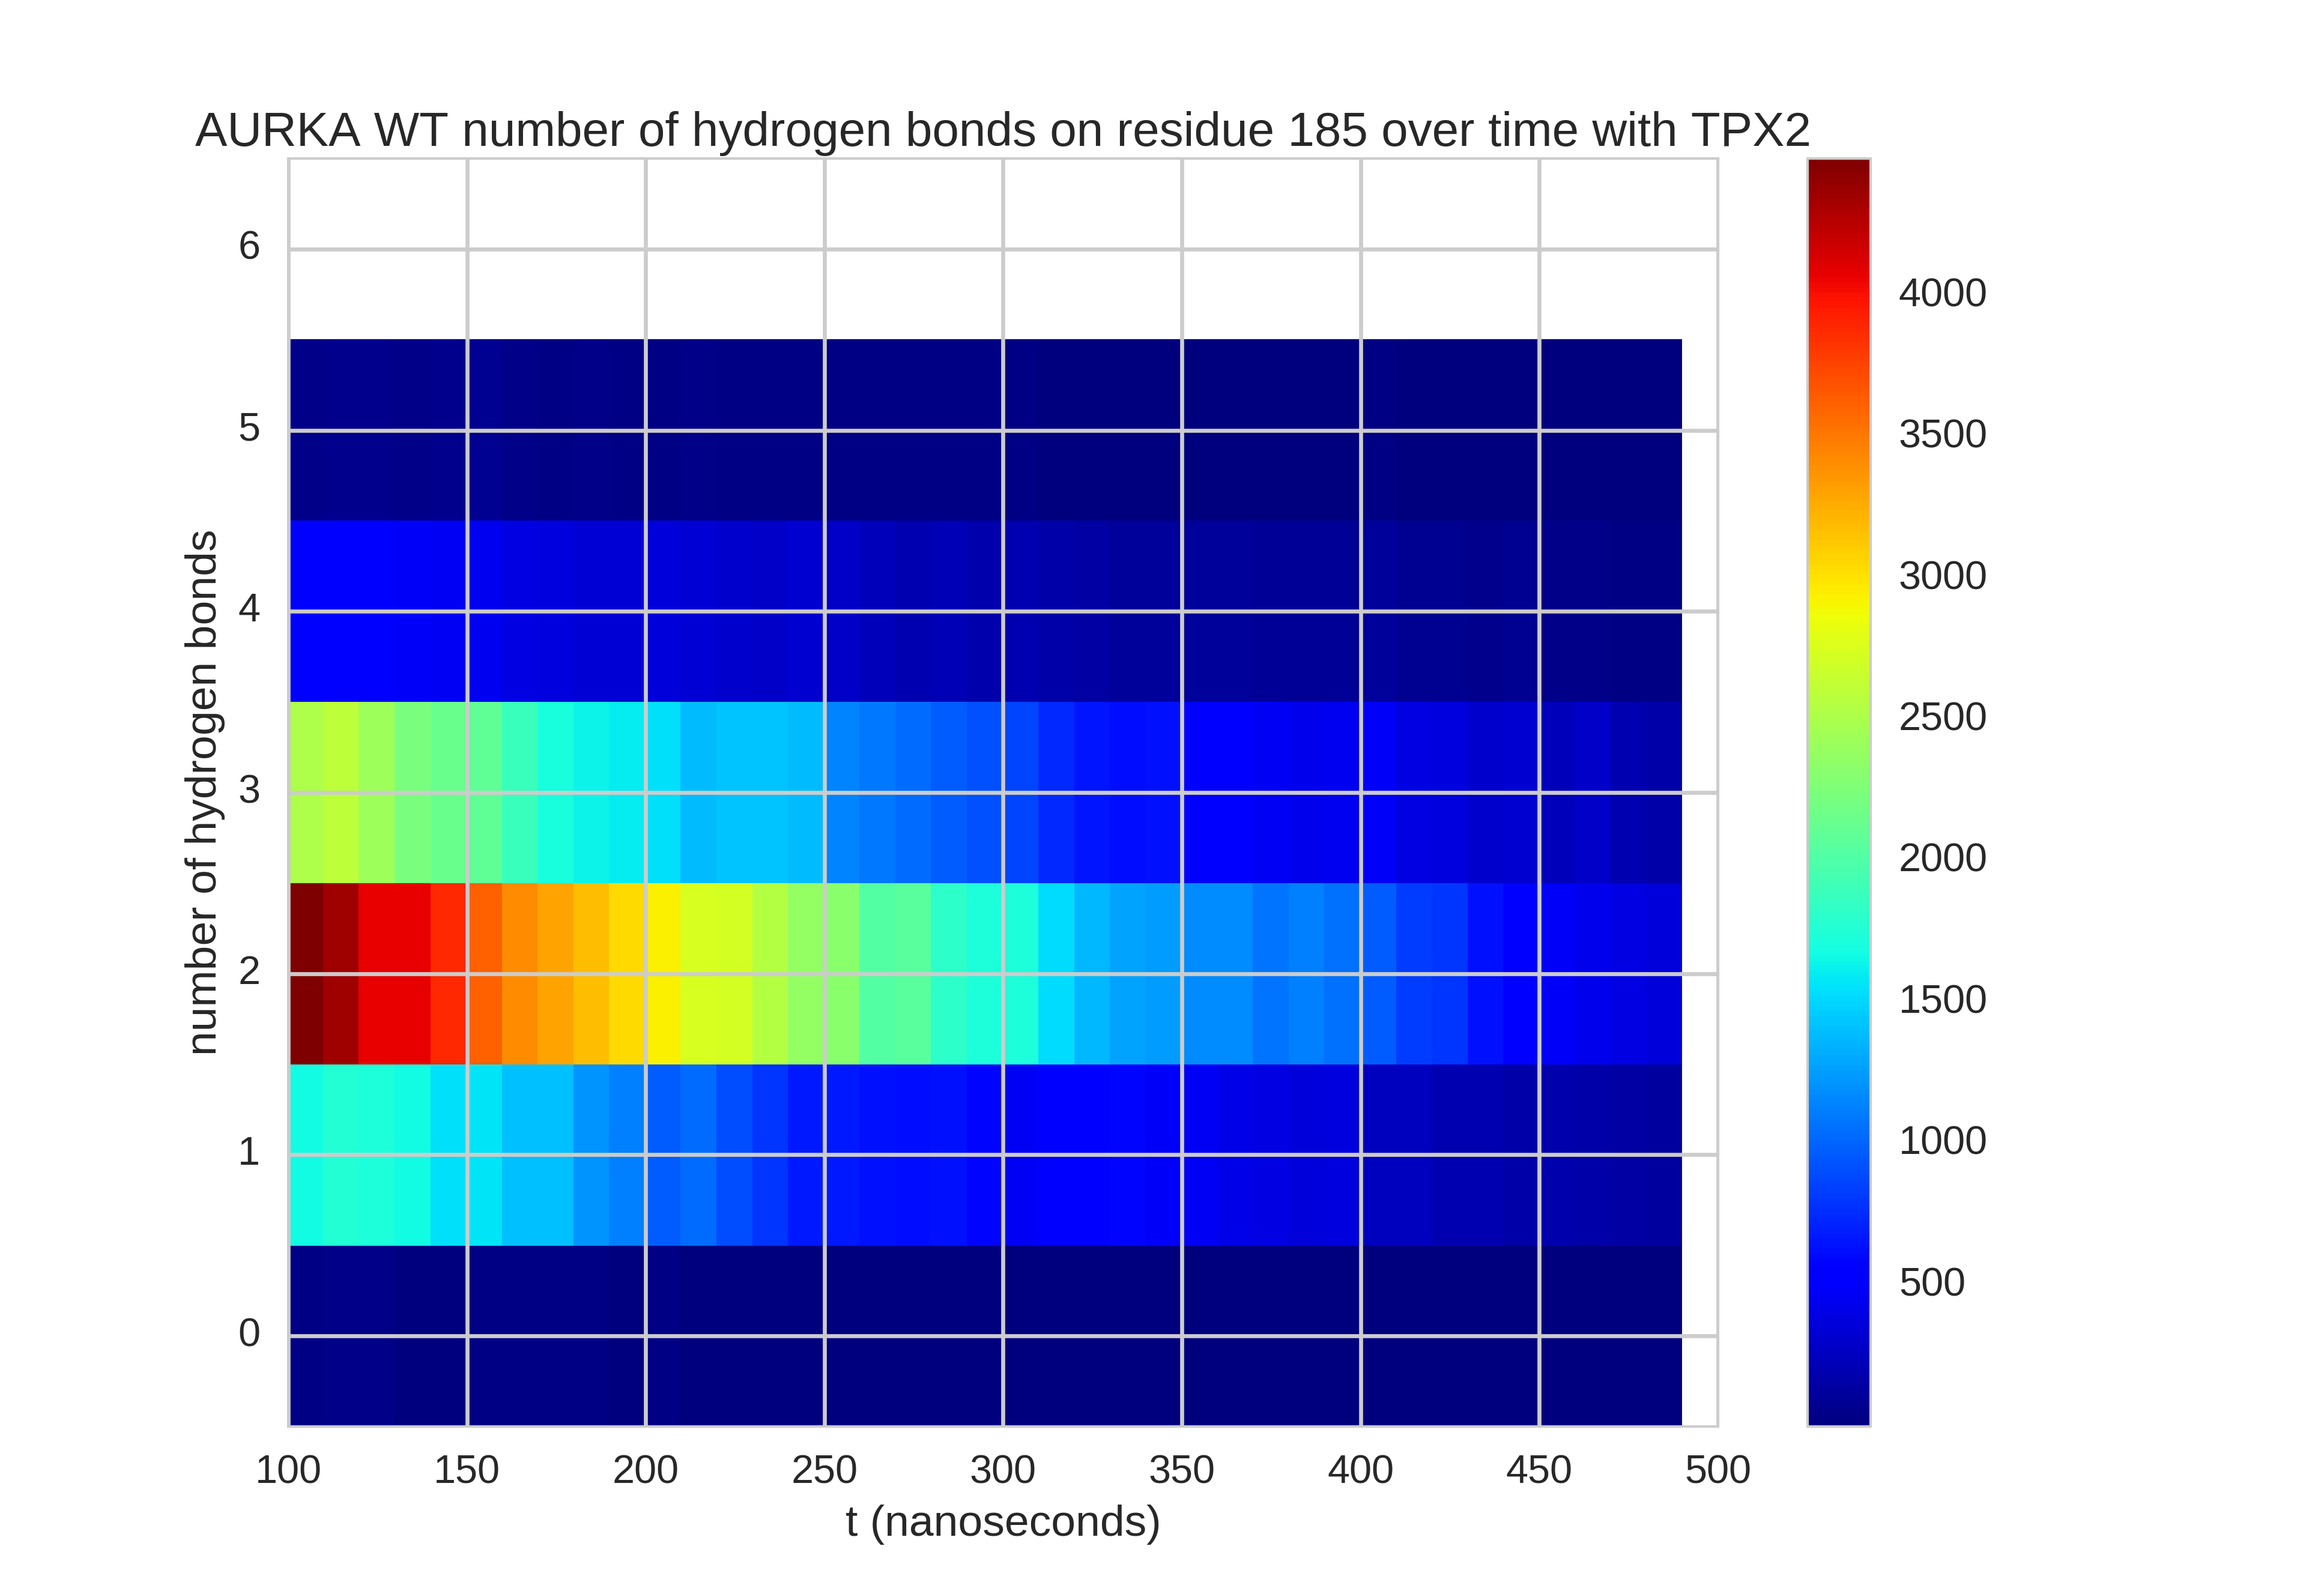
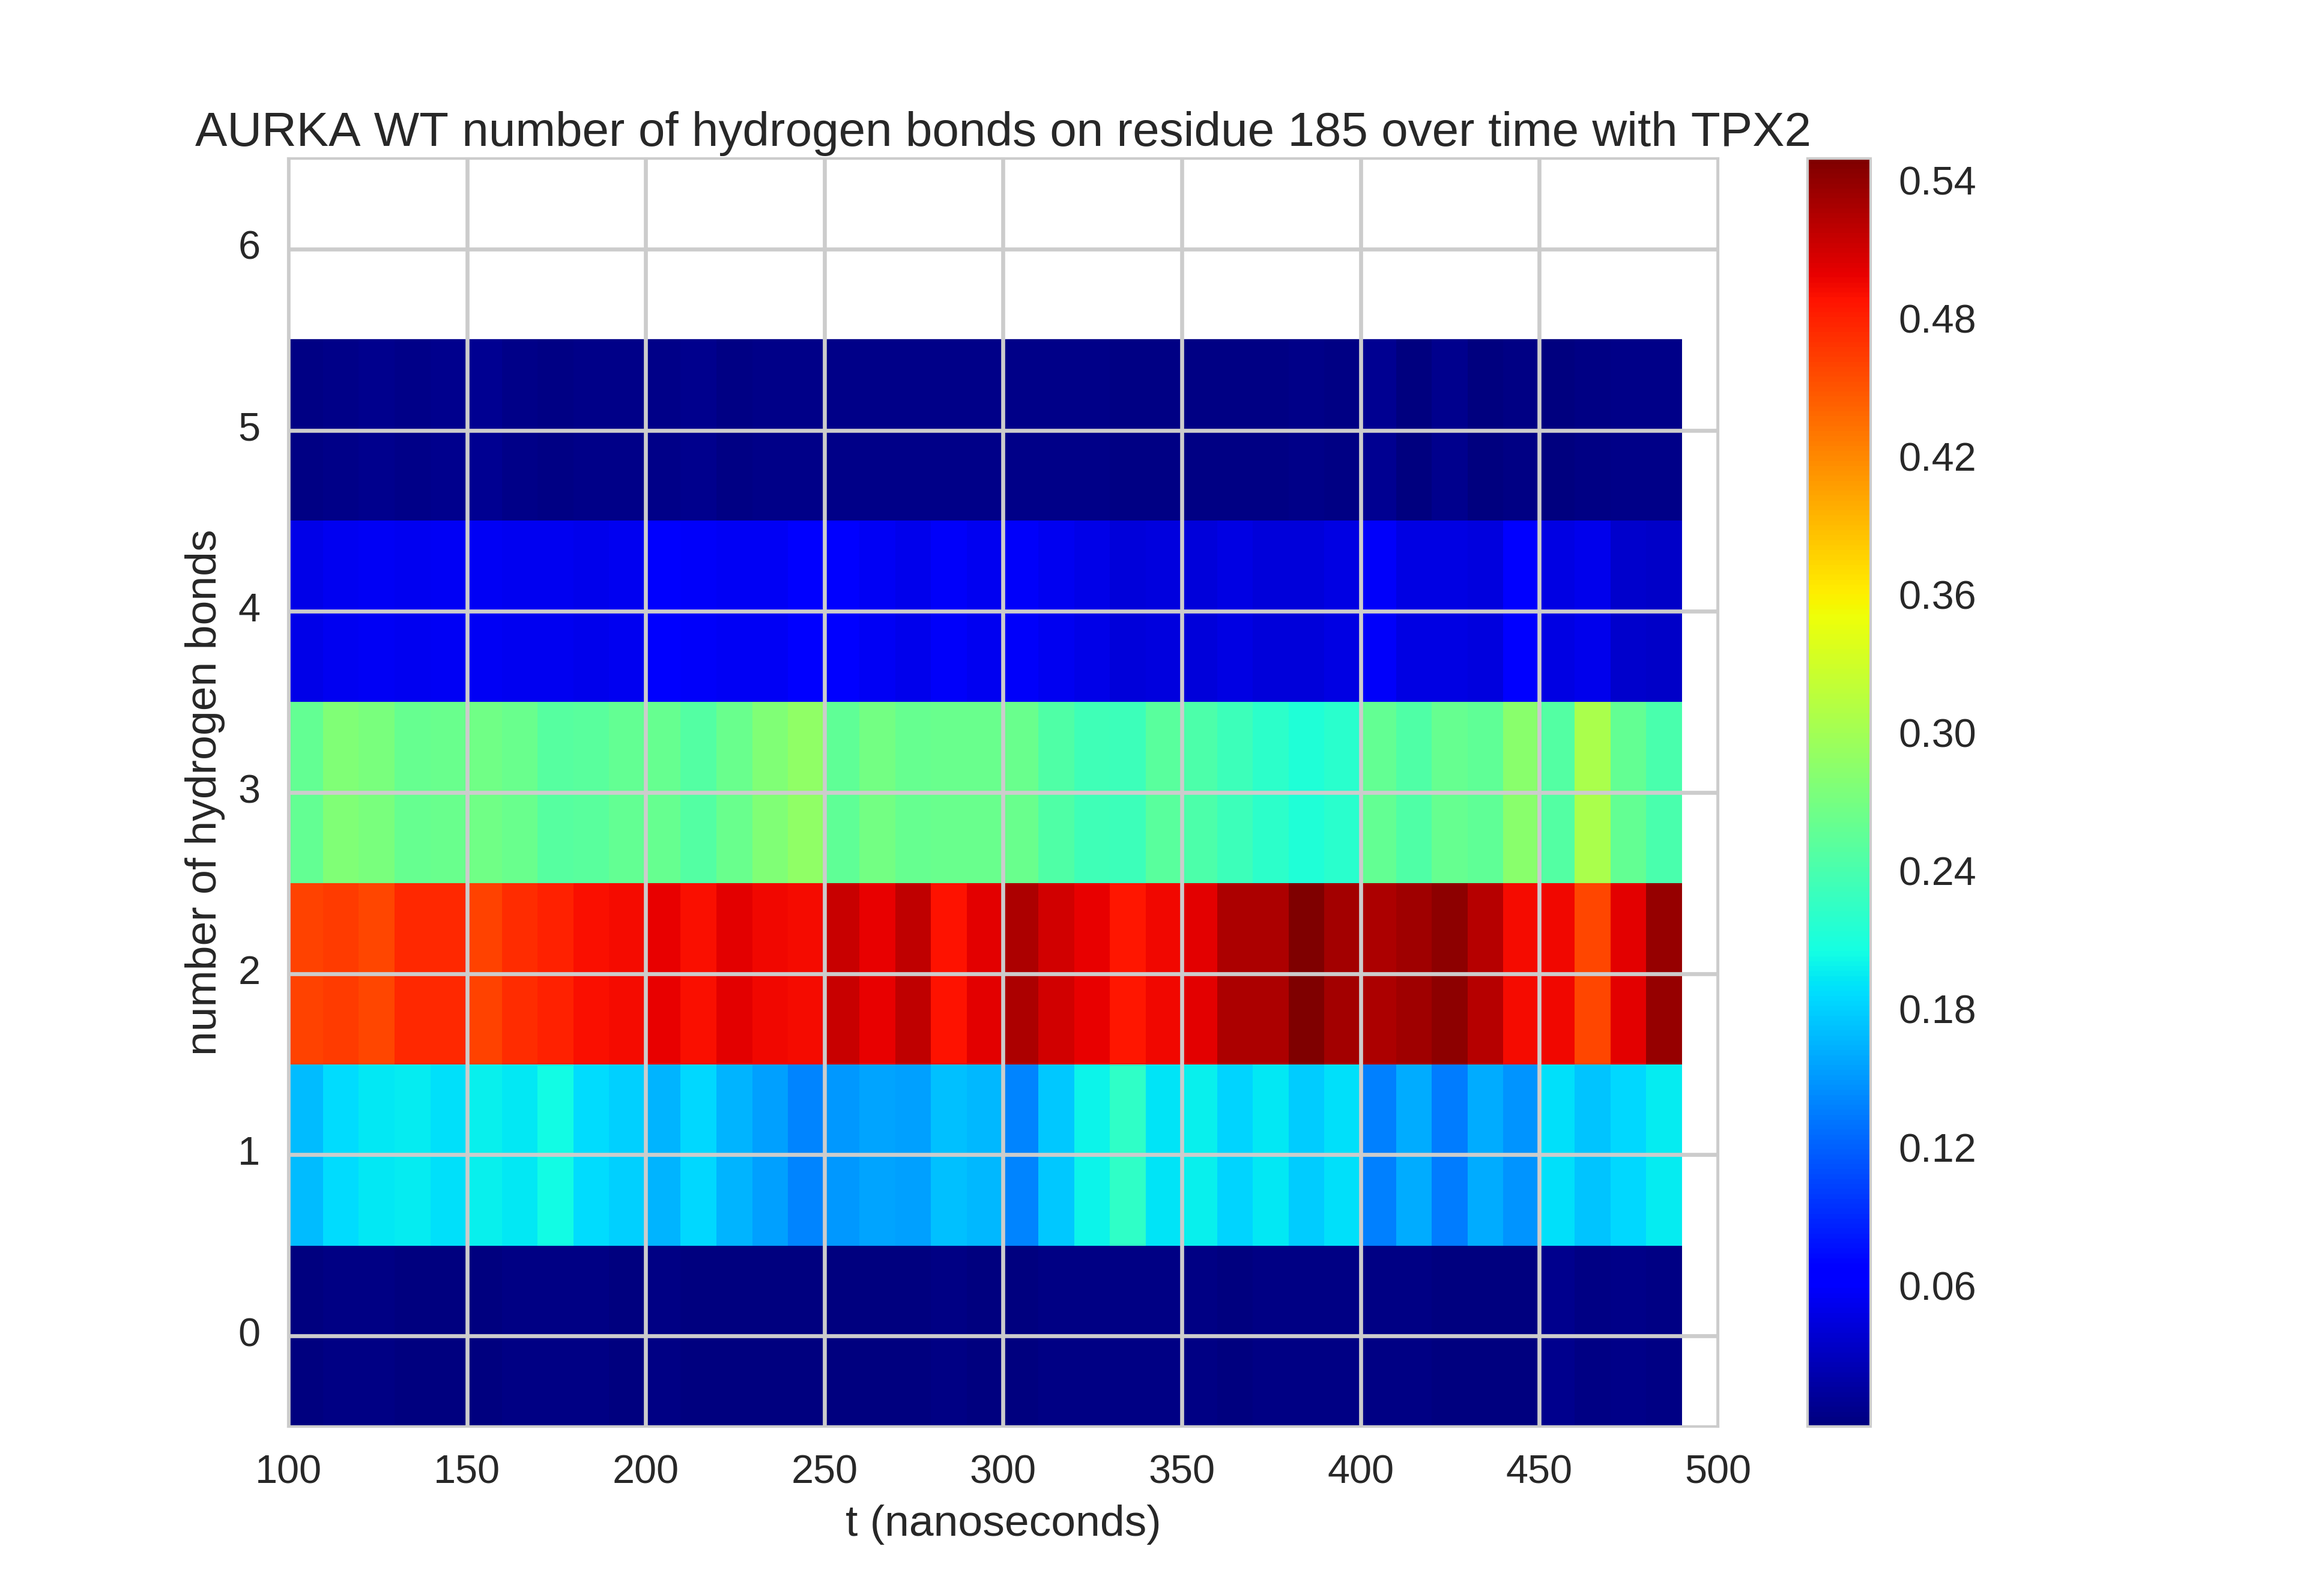
Plot probability distribution at each frame

diff --git a/RUN0_search_for_W1_W2.py b/RUN0_search_for_W1_W2.py
@@ -39,10 +39,9 @@ for entry in run_index.split('\n'):
 bin_x = np.arange(offset/4,500,10) - 0.25
 bin_y = np.arange(7) - 0.5
 
-def plot_2dhist(residue, x_axis, hbond_count, run, project):
-    print('Now plotting residue %s from %s RUN%s' % (residue, project, run))
+def plot_2dhist(residue, x_axis, hbond_count, weights, run, project):
     fig1 = plt.figure()
-    plt.hist2d(x_axis[hbond_count > -1],hbond_count[hbond_count > -1],bins=[bin_x,bin_y],cmap=plt.get_cmap('jet'))
+    plt.hist2d(x_axis[hbond_count > -1],hbond_count[hbond_count > -1],bins=[bin_x,bin_y],weights=weights[hbond_count > -1],cmap=plt.get_cmap('jet'))
     plt.title('AURKA %s number of hydrogen bonds on residue %s over time %s' % (mutant['RUN%s' % run], residue, system[project]))
     plt.ylabel('number of hydrogen bonds')
     plt.xlabel('t (nanoseconds)')
@@ -52,15 +51,19 @@ def plot_2dhist(residue, x_axis, hbond_count, run, project):
         residue = str(residue)+'-possible-W1-W2'
     plt.savefig("./plots/AURKA-%s-hbonds-hist2d-entire-traj-%s-combined-RUN%s" % (residue, project, run),dpi=300)
     plt.close(fig1)
+    print('Saved ./plots/AURKA-%s-hbonds-hist2d-entire-traj-%s-combined-RUN%s.png' % (residue, project, run))
 
 def count_and_plot_res_bonds(residue, HB_res_total,compare_to=None):
     hbond_count = np.zeros((5*50,2000-offset)) - 1
     x_axis = np.zeros((5*50,2000-offset))
+    weights = np.zeros((5*50,2000-offset))
+    column_count = np.zeros(bin_x.shape)
     for clone, traj in enumerate(HB_res_total):
         for index in range(offset,2000):
             if compare_to is None:
                 try:
                     hbond_count[clone][index-offset] = traj[index].shape[0]
+                    column_count[(index-offset-0.25)/40] += 1
                 except:
                     pass
             else:
@@ -73,12 +76,17 @@ def count_and_plot_res_bonds(residue, HB_res_total,compare_to=None):
                             bond[2] in reference_acceptors or bond[0] in reference_acceptors):
                             count += 1
                     hbond_count[clone][index-offset] = count
+                    column_count[(index-offset-0.25)/40] += 1
                 except:
                     pass
             x_axis[clone][index-offset] = index*0.25
+    for clone, traj in enumerate(HB_res_total):
+        for index in range(offset,2000):
+            weights[clone][index-offset] = 1.00 / column_count[(index-offset-0.25)/40]
     x_axis = x_axis.flatten()
     hbond_count = hbond_count.flatten()
-    plot_2dhist(residue, x_axis, hbond_count, 0, project)
+    weights = weights.flatten()
+    plot_2dhist(residue, x_axis, hbond_count, weights, 0, project)
 
 for i, project in enumerate(projects):
     project_dir = project_dirs[project]
@@ -97,4 +105,3 @@ for i, project in enumerate(projects):
     for key in HB_total.keys():
         if key != reference:
             count_and_plot_res_bonds(key, HB_total[key], compare_to=HB_total[reference])
-

diff --git a/RUN0_hbonds_2dhists.py b/RUN0_hbonds_2dhists.py
@@ -39,10 +39,9 @@ for entry in run_index.split('\n'):
 bin_x = np.arange(offset/4,500,10) - 0.25
 bin_y = np.arange(7) - 0.5
 
-def plot_2dhist(residue, x_axis, hbond_count, run, project):
-    print('Now plotting residue %s from %s RUN%s' % (residue, project, run))
+def plot_2dhist(residue, x_axis, hbond_count, weights, run, project):
     fig1 = plt.figure()
-    plt.hist2d(x_axis[hbond_count > -1],hbond_count[hbond_count > -1],bins=[bin_x,bin_y],cmap=plt.get_cmap('jet'))
+    plt.hist2d(x_axis[hbond_count > -1],hbond_count[hbond_count > -1],bins=[bin_x,bin_y],weights=weights[hbond_count > -1],cmap=plt.get_cmap('jet'))
     plt.title('AURKA %s number of hydrogen bonds on residue %s over time %s' % (mutant['RUN%s' % run], residue, system[project]))
     plt.ylabel('number of hydrogen bonds')
     plt.xlabel('t (nanoseconds)')
@@ -50,15 +49,19 @@ def plot_2dhist(residue, x_axis, hbond_count, run, project):
     plt.axis([offset/4,500,-0.5,6.5])
     plt.savefig("./plots/AURKA-%s-hbonds-hist2d-entire-traj-%s-combined-RUN%s" % (residue, project, run),dpi=300)
     plt.close(fig1)
+    print('Saved ./plots/AURKA-%s-hbonds-hist2d-entire-traj-%s-combined-RUN%s.png' % (residue, project, run))
 
 def count_and_plot_res_bonds(residue, HB_res_total,compare_to=None):
     hbond_count = np.zeros((5*50,2000-offset)) - 1
     x_axis = np.zeros((5*50,2000-offset))
+    weights = np.zeros((5*50,2000-offset))
+    column_count = np.zeros(bin_x.shape)
     for clone, traj in enumerate(HB_res_total):
         for index in range(offset,2000):
             if compare_to is None:
                 try:
                     hbond_count[clone][index-offset] = traj[index].shape[0]
+                    column_count[(index-offset-0.25)/40] += 1
                 except:
                     pass
             else:
@@ -71,12 +74,17 @@ def count_and_plot_res_bonds(residue, HB_res_total,compare_to=None):
                             bond[2] in reference_acceptors or bond[0] in reference_acceptors):
                             count += 1
                     hbond_count[clone][index-offset] = count
+                    column_count[(index-offset-0.25)/40] += 1
                 except:
                     pass
             x_axis[clone][index-offset] = index*0.25
+    for clone, traj in enumerate(HB_res_total):
+        for index in range(offset,2000):
+            weights[clone][index-offset] = 1.00 / column_count[(index-offset-0.25)/40]
     x_axis = x_axis.flatten()
     hbond_count = hbond_count.flatten()
-    plot_2dhist(residue, x_axis, hbond_count, 0, project)
+    weights = weights.flatten()
+    plot_2dhist(residue, x_axis, hbond_count, weights, 0, project)
 
 for i, project in enumerate(projects):
     project_dir = project_dirs[project]

diff --git a/RUN0_salt_bridge_2dhists.py b/RUN0_salt_bridge_2dhists.py
@@ -35,9 +35,9 @@ offset = 400
 bin_x = np.arange(offset/4,500,10) - 0.25
 bin_y = np.arange(20) * 0.02 + 0.25
 
-def plot_2dhist(bridge, x_axis, minimum_distance, run, project):
+def plot_2dhist(bridge, x_axis, minimum_distance, weights, run, project):
     fig1 = plt.figure()
-    plt.hist2d(x_axis[minimum_distance > 0],minimum_distance[minimum_distance > 0],bins=[bin_x,bin_y],cmap=plt.get_cmap('jet'))
+    plt.hist2d(x_axis[minimum_distance > 0],minimum_distance[minimum_distance > 0],bins=[bin_x,bin_y],weights=weights[minimum_distance > 0],cmap=plt.get_cmap('jet'))
     plt.title('AURKA %s minimum %s salt bridge distance over time %s' % (mutant['RUN%s' % run], bridge, system[project]))
     plt.ylabel('distance r (nanometers) between residues %s and %s' % (bridge.split('-')[0], bridge.split('-')[1]))
     plt.xlabel('t (nanoseconds)')
@@ -45,12 +45,15 @@ def plot_2dhist(bridge, x_axis, minimum_distance, run, project):
     plt.axis([offset/4,500,0.25,0.65])
     plt.savefig("./plots/AURKA-salt-bridge-%s-hist2d-entire-traj-%s-combined-RUN%s" % (bridge, project, run),dpi=300)
     plt.close(fig1)
+    print('Saved ./plots/AURKA-salt-bridge-%s-hist2d-entire-traj-%s-combined-RUN%s.png' % (bridge, project, run))
 
 for i, project in enumerate(projects):
     project_dir = project_dirs[project]
     for bridge in ['181-185','181-162']:
         minimum_distance = np.zeros((5*50,2000-offset))
         x_axis = np.zeros((5*50,2000-offset))
+        weights = np.zeros((5*50,2000-offset))
+        column_count = np.zeros(bin_x.shape)
         for run in range(5):
             if not os.path.exists('%s/data/%s_%s_%s_SB_total.npy' % (project_dir, project, run, bridge)):
                 continue
@@ -60,9 +63,14 @@ for i, project in enumerate(projects):
                 for index in range(offset,2000):
                     try:
                         minimum_distance[run*50+clone][index-offset] = traj[index]
+                        column_count[(index-offset-0.25)/40] += 1
                     except:
                         pass
                     x_axis[run*50+clone][index-offset] = index*0.25
+        for clone, traj in enumerate(SB_total):
+            for index in range(offset,2000):
+                weights[clone][index-offset] = 1.00 / column_count[(index-offset-0.25)/40]
         x_axis = x_axis.flatten()
         minimum_distance = minimum_distance.flatten()
-        plot_2dhist(bridge, x_axis, minimum_distance, 0, project)
+        weights = weights.flatten()
+        plot_2dhist(bridge, x_axis, minimum_distance, weights, 0, project)
